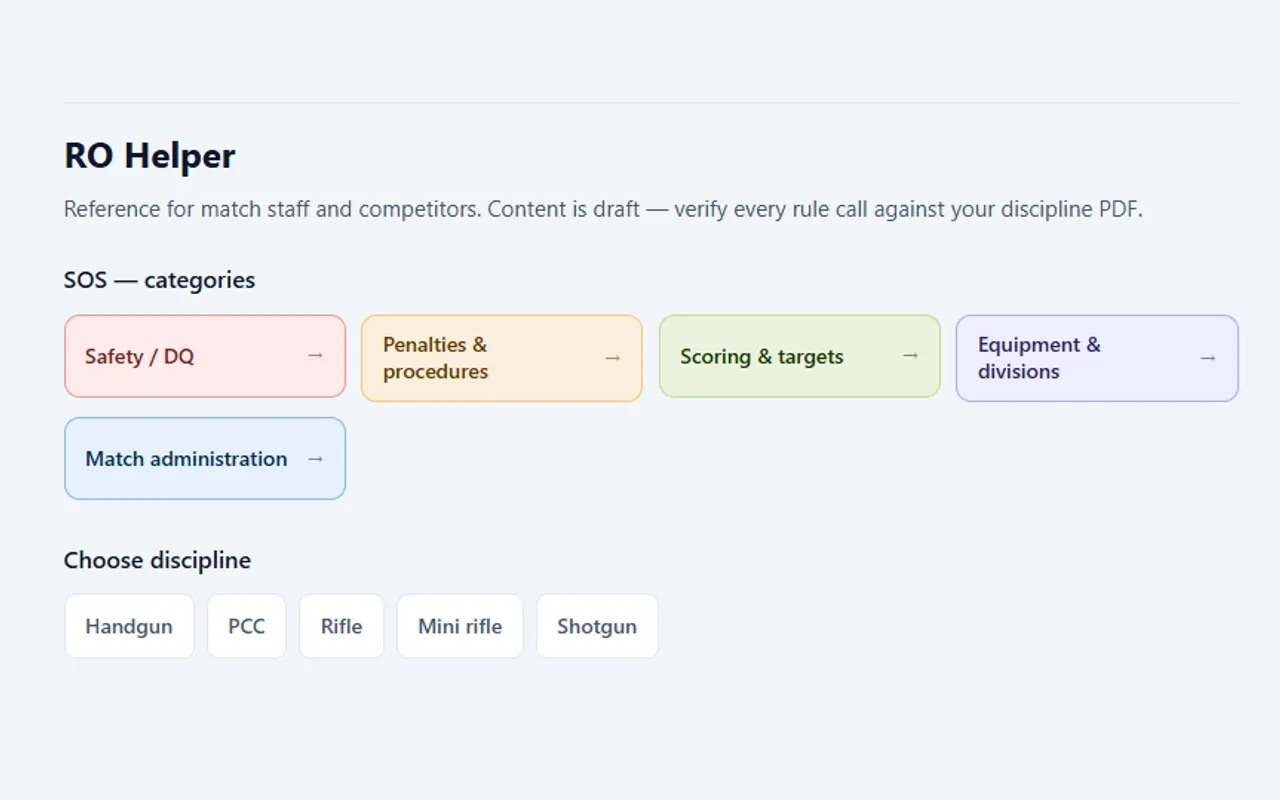
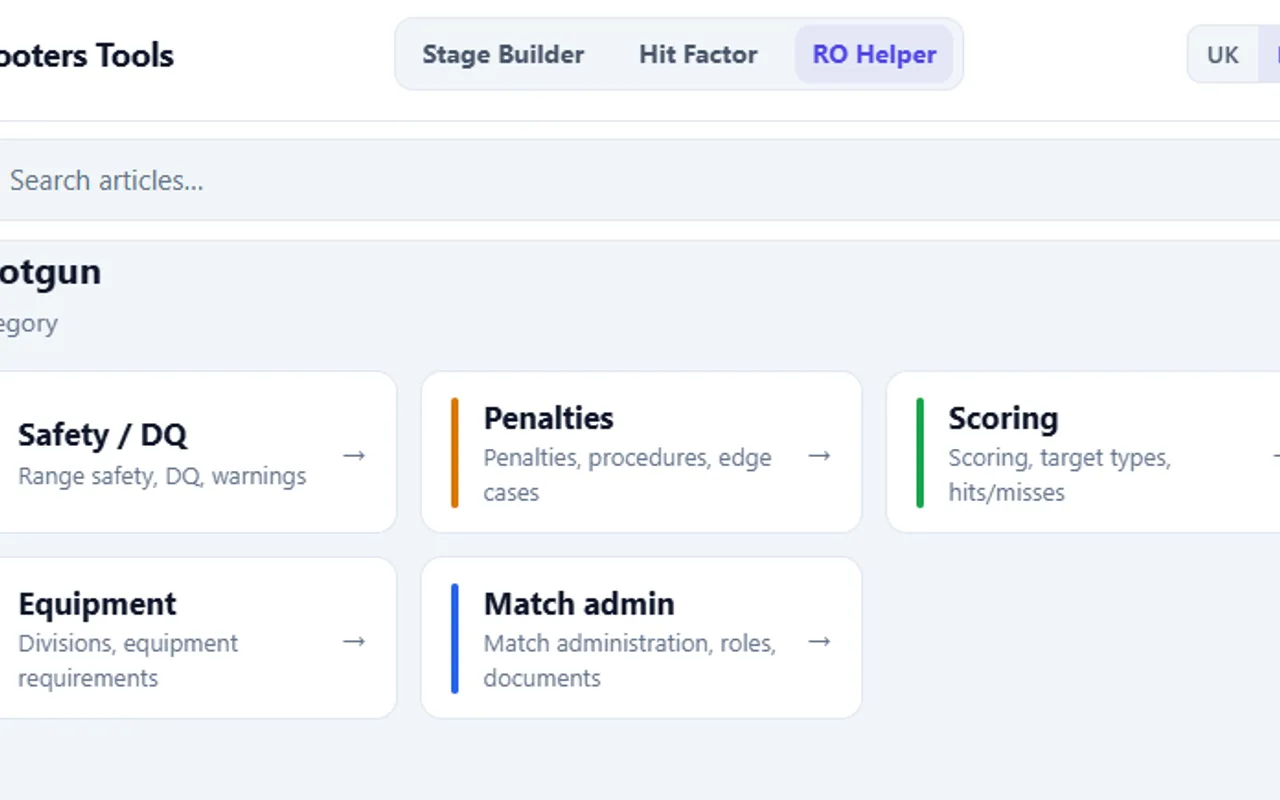
feat(portal): refresh RO Helper card preview from product screenshot
Replace public/portal-previews/ro-helper.webp with an updated Shotgun-category
SOS grid screenshot (1280×800). Add ro-helper.png as ProductCard previewFallback.
Document PORTAL_PREVIEWS.md §2.3 + §5 asset list.

Made-with: Cursor

diff --git a/src/portal/PortalHome.tsx b/src/portal/PortalHome.tsx
@@ -139,6 +139,7 @@ export function PortalHome() {
           <ProductCard
             to={roHelperPath()}
             preview="/portal-previews/ro-helper.webp"
+            previewFallback="/portal-previews/ro-helper.png"
             previewAlt={`${p.roHelperTitle} — ${p.roHelperDesc}`}
             title={p.roHelperTitle}
             description={p.roHelperDesc}

diff --git a/docs/PORTAL_PREVIEWS.md b/docs/PORTAL_PREVIEWS.md
@@ -53,10 +53,13 @@
 - Ширина вікна — десктопна (`≥ 1024 px`), щоб блоки не стискались у вузькі
   колонки.
 
-### 2.3. RO Helper (`ro-helper.webp`)
-- Список статей з **видимими чипами категорій** (`Procedures`, `Penalties`,
-  `Scoring`, `Equipment`) і двома-трьома картками.
-- Скрол у самий верх, щоб у кадр не лізли старі/несумісні елементи.
+### 2.3. RO Helper (`ro-helper.webp` + `ro-helper.png` fallback)
+- Екран **категорій** обраної дисципліни (наприклад **Shotgun**): заголовок дисципліни,
+  пошук «Search articles…», **п’ять SOS-карток** (Safety / Penalties / Scoring /
+  Equipment / Match admin) з кольоровими смужками та короткими описами — типовий вигляд
+  модуля для прев’ю на головній порталу.
+- У шапці видно **Shooters Tools** і висвітлений пункт **RO Helper** (контекст продукту).
+- Скрол у верх сторінки, без зайвих елементів поза кадром `16:10`.
 
 ---
 
@@ -164,6 +167,7 @@ public/portal-previews/
   stage-builder.svg       # <picture>-fallback / архів мокапа
   hit-factor.webp         # 1280×800, 16:10
   ro-helper.webp          # 1280×800, 16:10
+  ro-helper.png           # fallback для `<picture>` у `PortalHome` (якщо WebP недоступний)
 ```
 
 - Не міняємо імена — інакше `<img src>` у `PortalHome.tsx` потрібно буде
